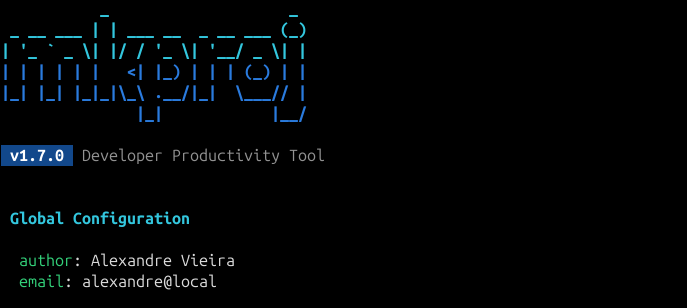
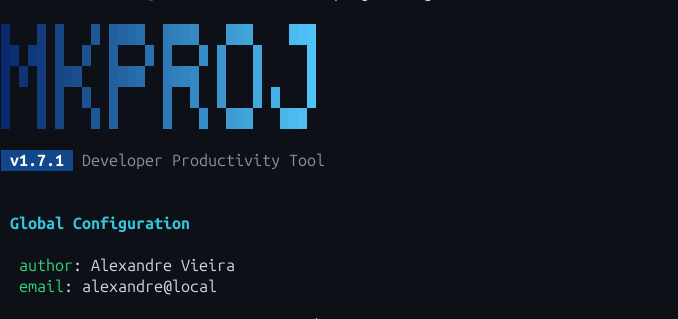
chore(release): bump version to v1.7.1 and update README screenshots

diff --git a/main.py b/main.py
@@ -2,7 +2,7 @@
 
 """
 FILE: main.py
-VERSION: 1.7.0
+VERSION: 1.7.1
 DESCRIPTION: Main entry point for the mkproj-cli tool.
 """
 
@@ -24,7 +24,7 @@ from commands.new_project import command_new
 from commands.command_help import command_help
 from commands.command_config import command_config
 
-VERSION = "1.7.0"
+VERSION = "1.7.1"
 
 def _is_config_set():
     config = read_config()

diff --git a/README.md b/README.md
@@ -5,7 +5,7 @@
 <p>A fast and flexible CLI tool to scaffold structured projects in multiple programming languages.</p>
 
 <p>
-  <img src="https://img.shields.io/badge/version-v1.7.0-4c1?style=flat-square"/>
+  <img src="https://img.shields.io/badge/version-v1.7.1-4c1?style=flat-square"/>
   <img src="https://img.shields.io/badge/status-stable-2ea44f?style=flat-square"/>
   <img src="https://img.shields.io/badge/maintenance-active-1f6feb?style=flat-square"/>
   <img src="https://img.shields.io/badge/language-Python-3572A5?style=flat-square&logo=python&logoColor=white"/>
@@ -17,7 +17,7 @@
 ---
 
 > [!IMPORTANT]
-> **mkproj v1.7.0** is now stable. This release introduces a global configuration system, eliminating the need to re-enter author and email on every project creation.
+> **mkproj v1.7.1** is now stable. This release introduces a global configuration system, eliminating the need to re-enter author and email on every project creation.
 
 ---
 
